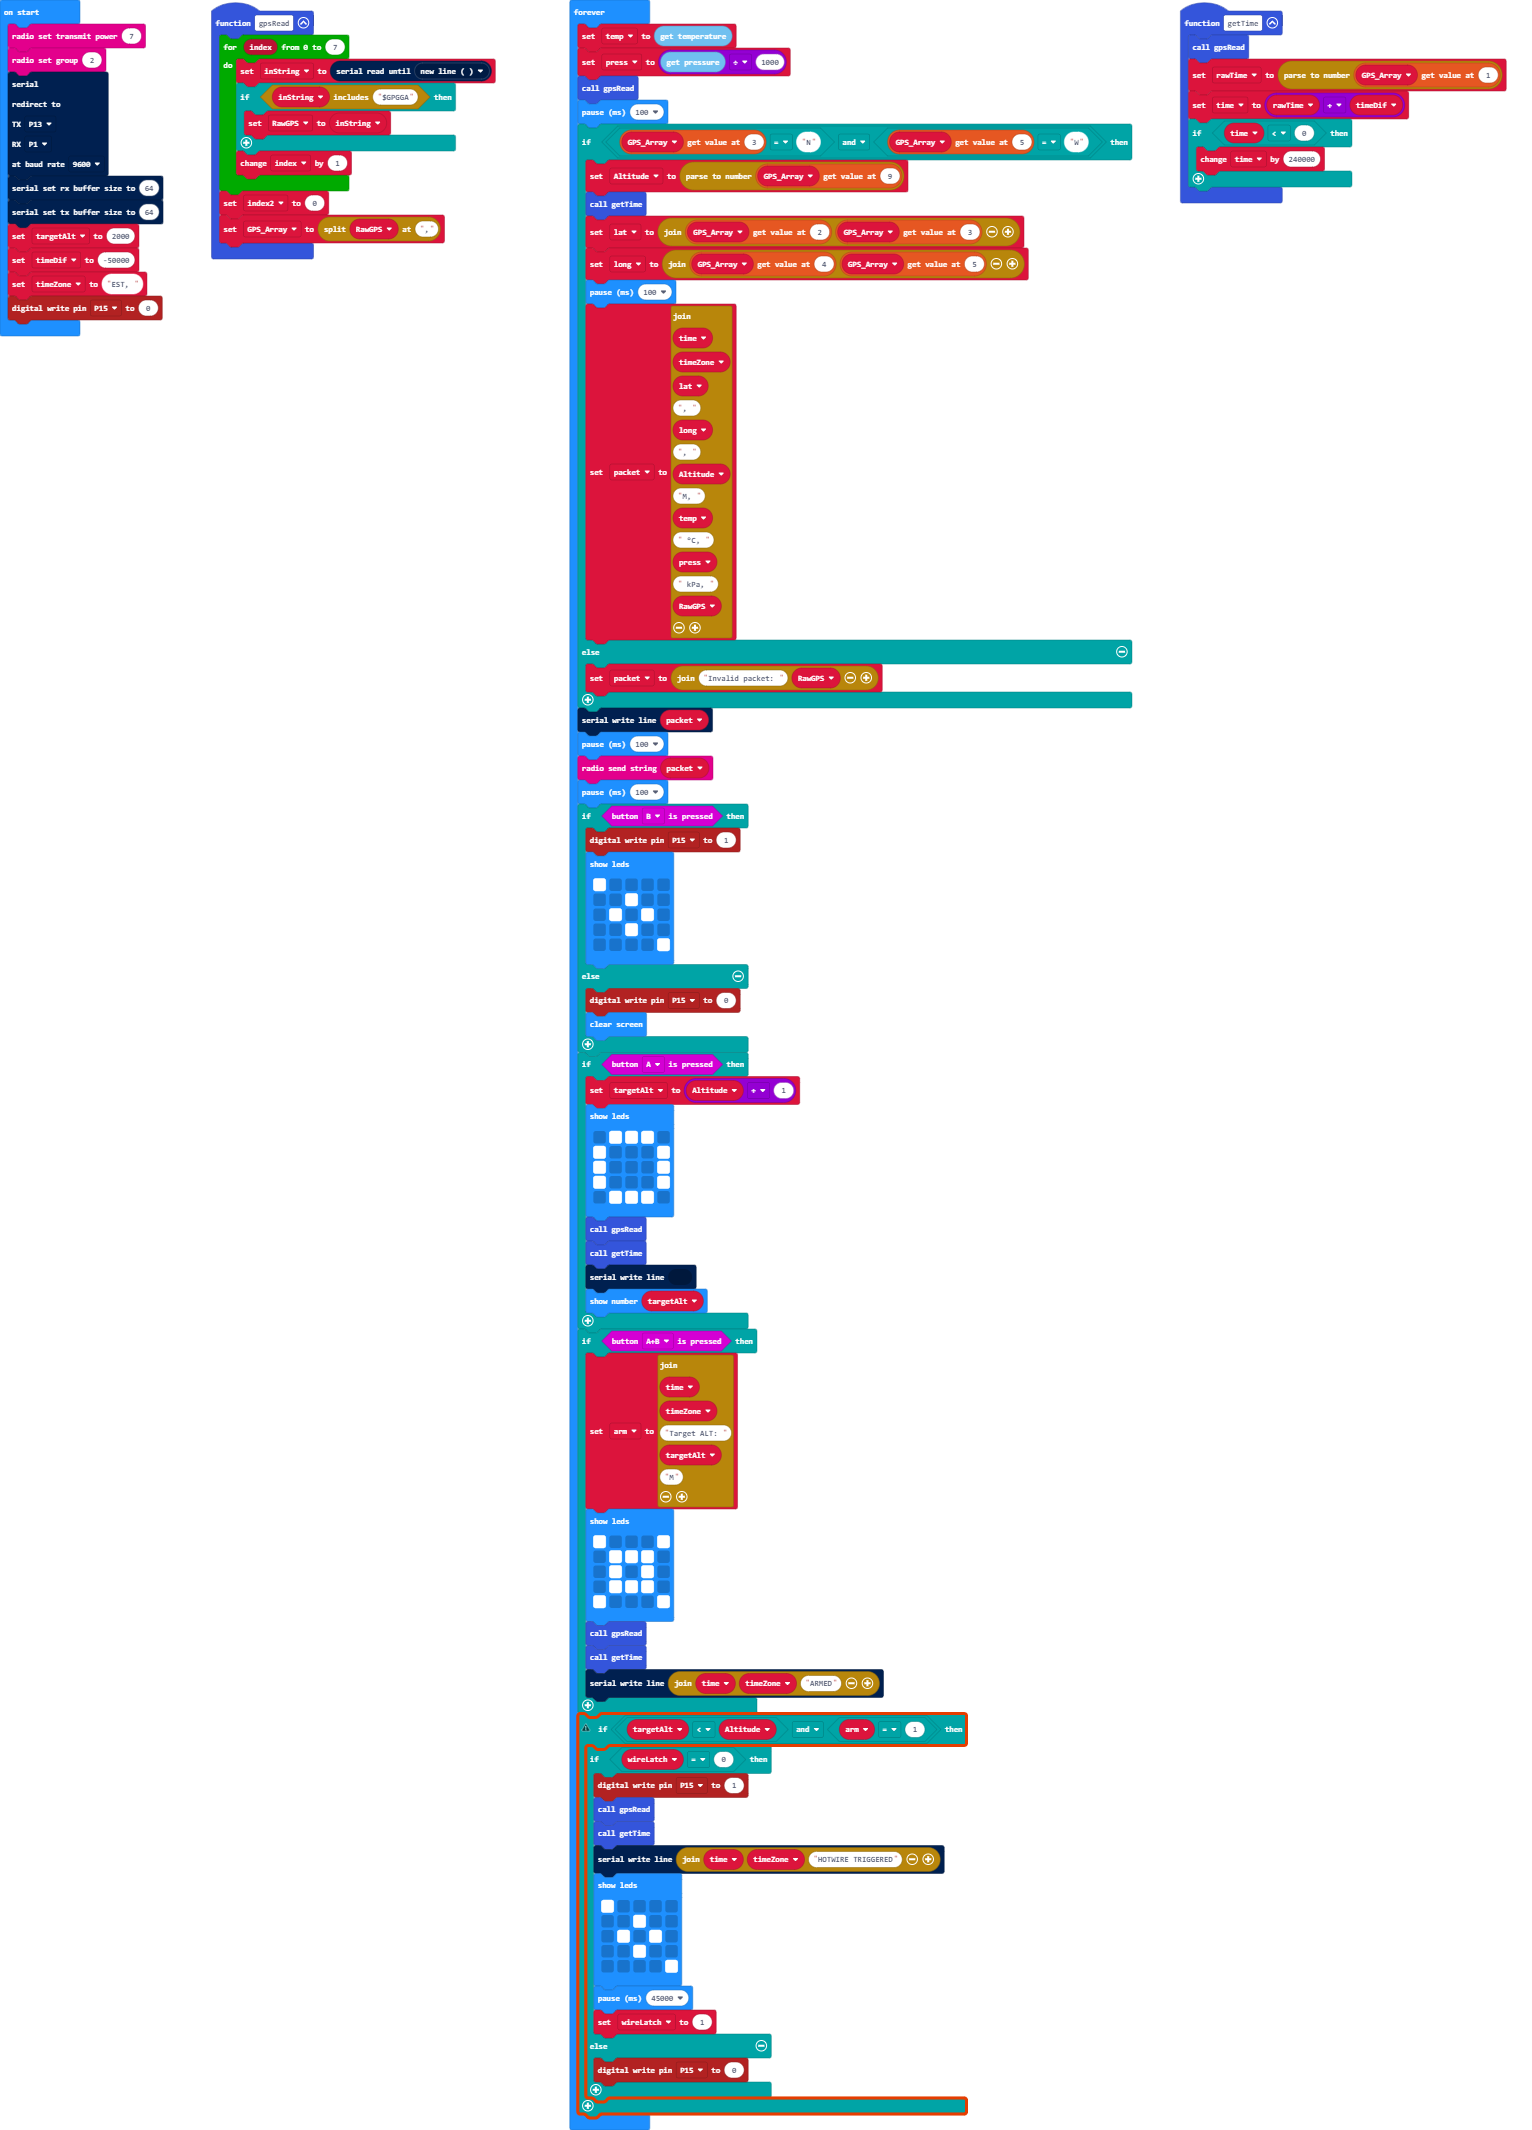
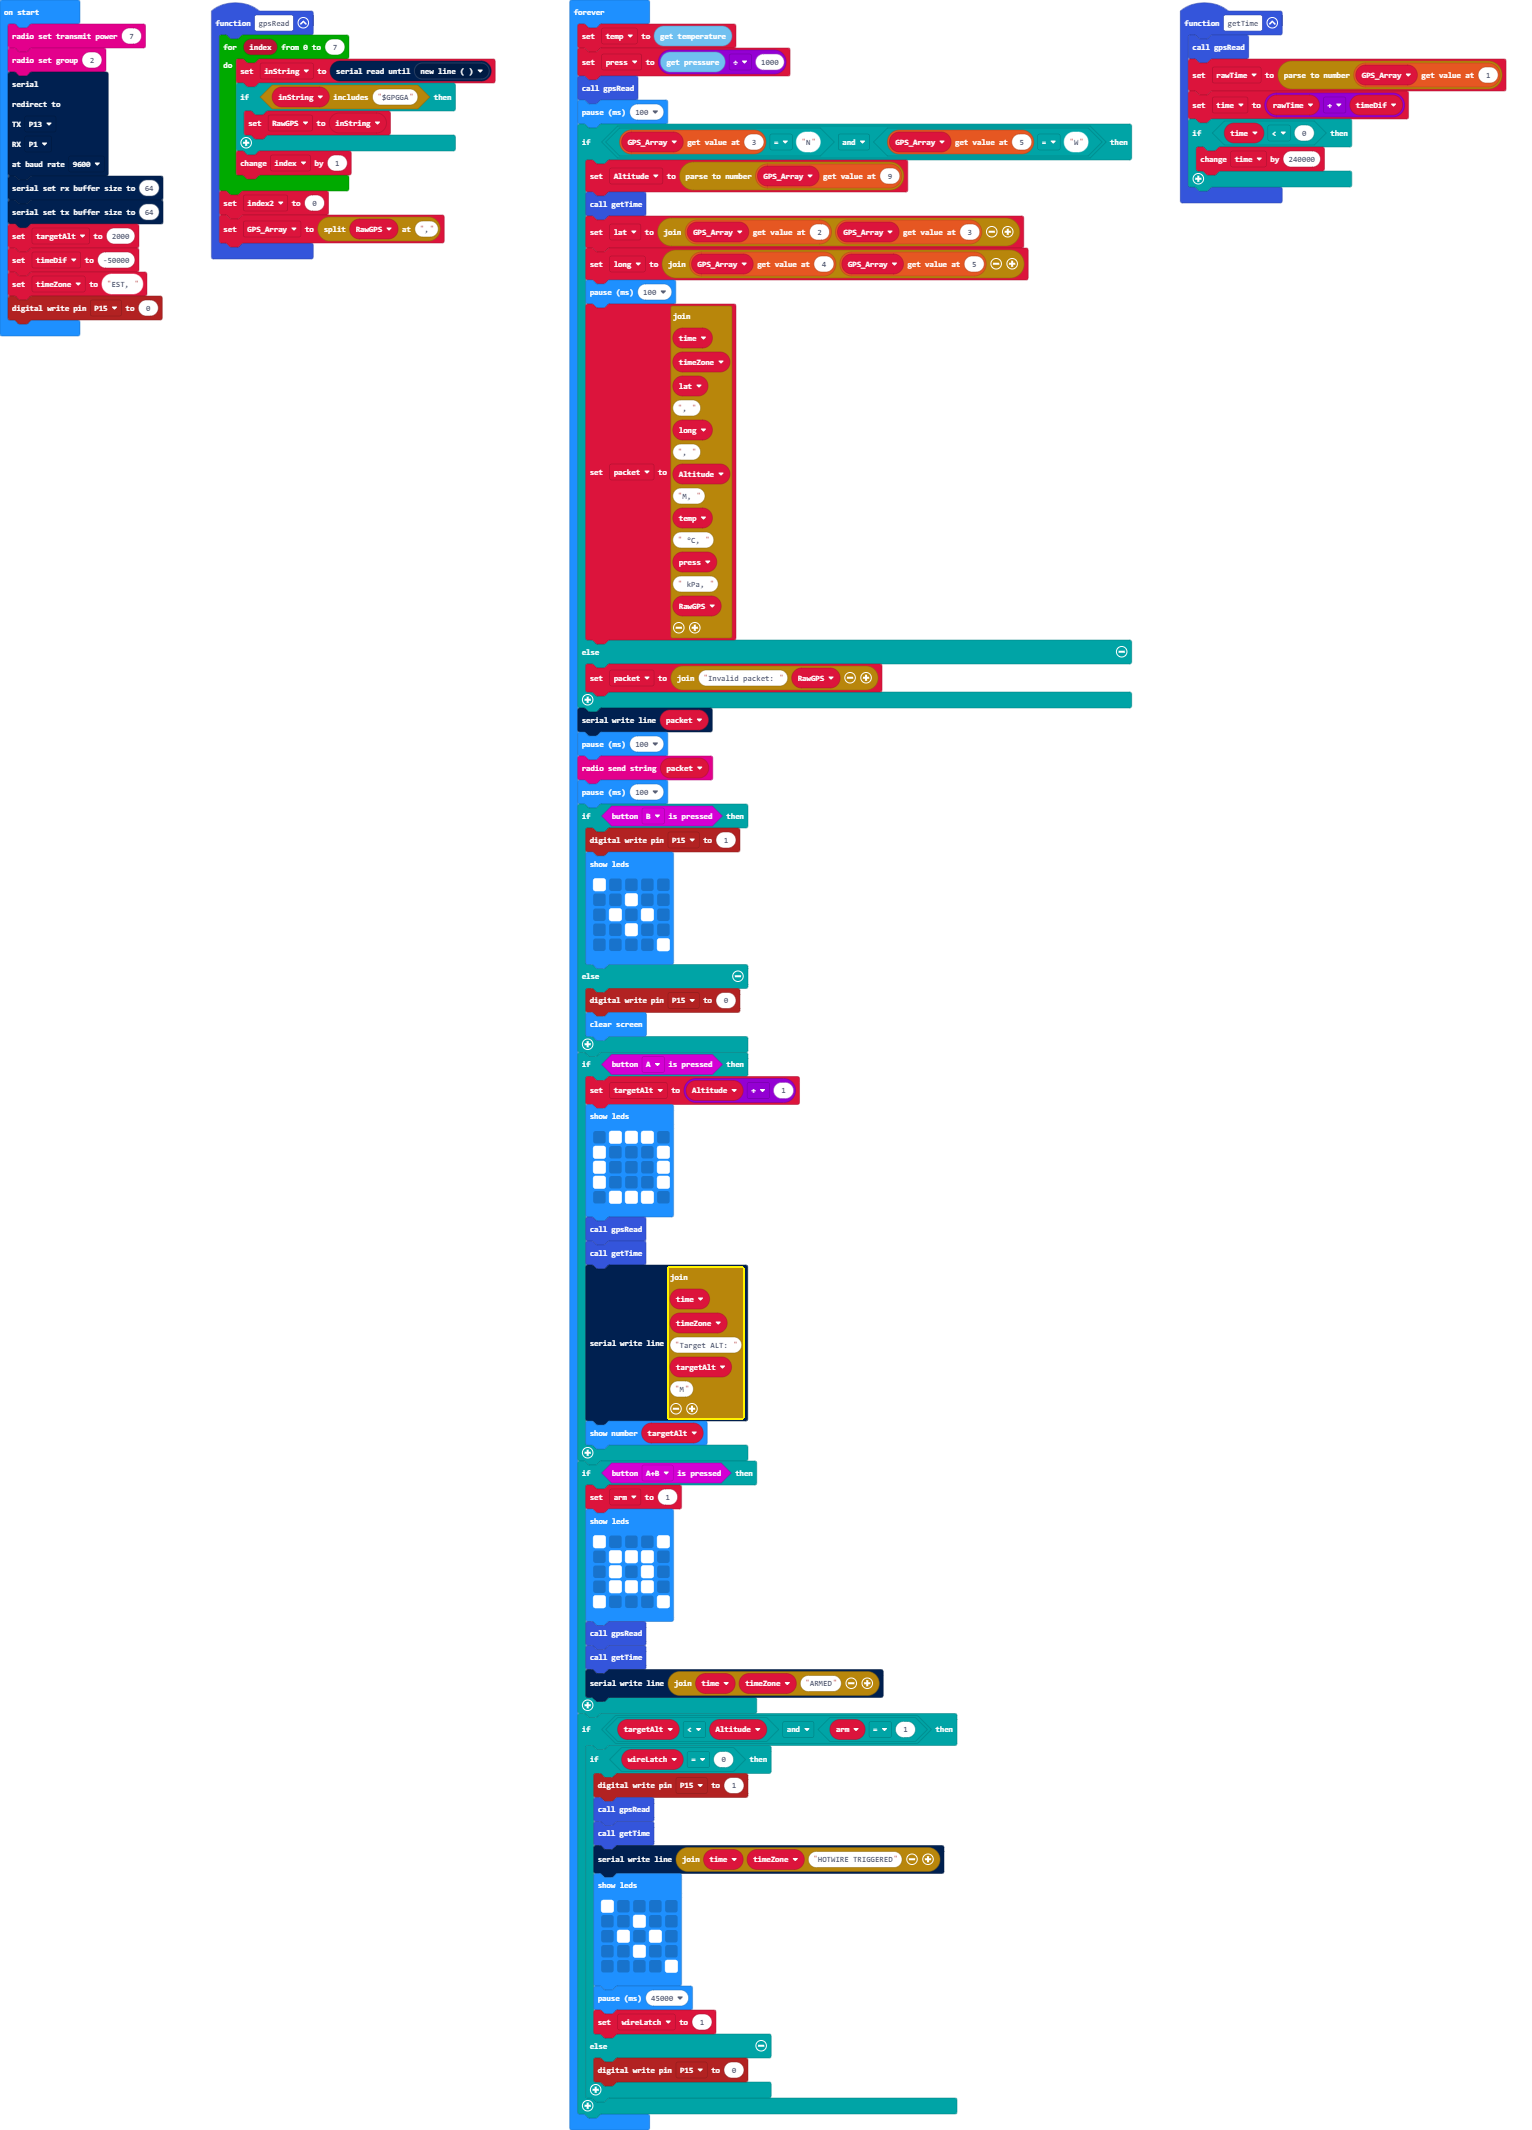
Fixed error in arm variable code

Changed region(s): [[0.3681, 0.8056, 0.6443, 1.0], [0.3681, 0.5887, 0.4909, 0.7127]]

diff --git a/main.ts b/main.ts
@@ -18,7 +18,7 @@ function gpsRead () {
     GPS_Array = RawGPS.split(",")
 }
 let wireLatch = 0
-let arm = ""
+let arm = 0
 let packet = ""
 let long = ""
 let lat = ""
@@ -88,11 +88,11 @@ basic.forever(function () {
             `)
         gpsRead()
         getTime()
-        serial.writeLine("" + (0))
+        serial.writeLine("" + time + timeZone + "Target ALT: " + targetAlt + "M")
         basic.showNumber(targetAlt)
     }
     if (input.buttonIsPressed(Button.AB)) {
-        arm = "" + time + timeZone + "Target ALT: " + targetAlt + "M"
+        arm = 1
         basic.showLeds(`
             # . . . #
             . # # # .
